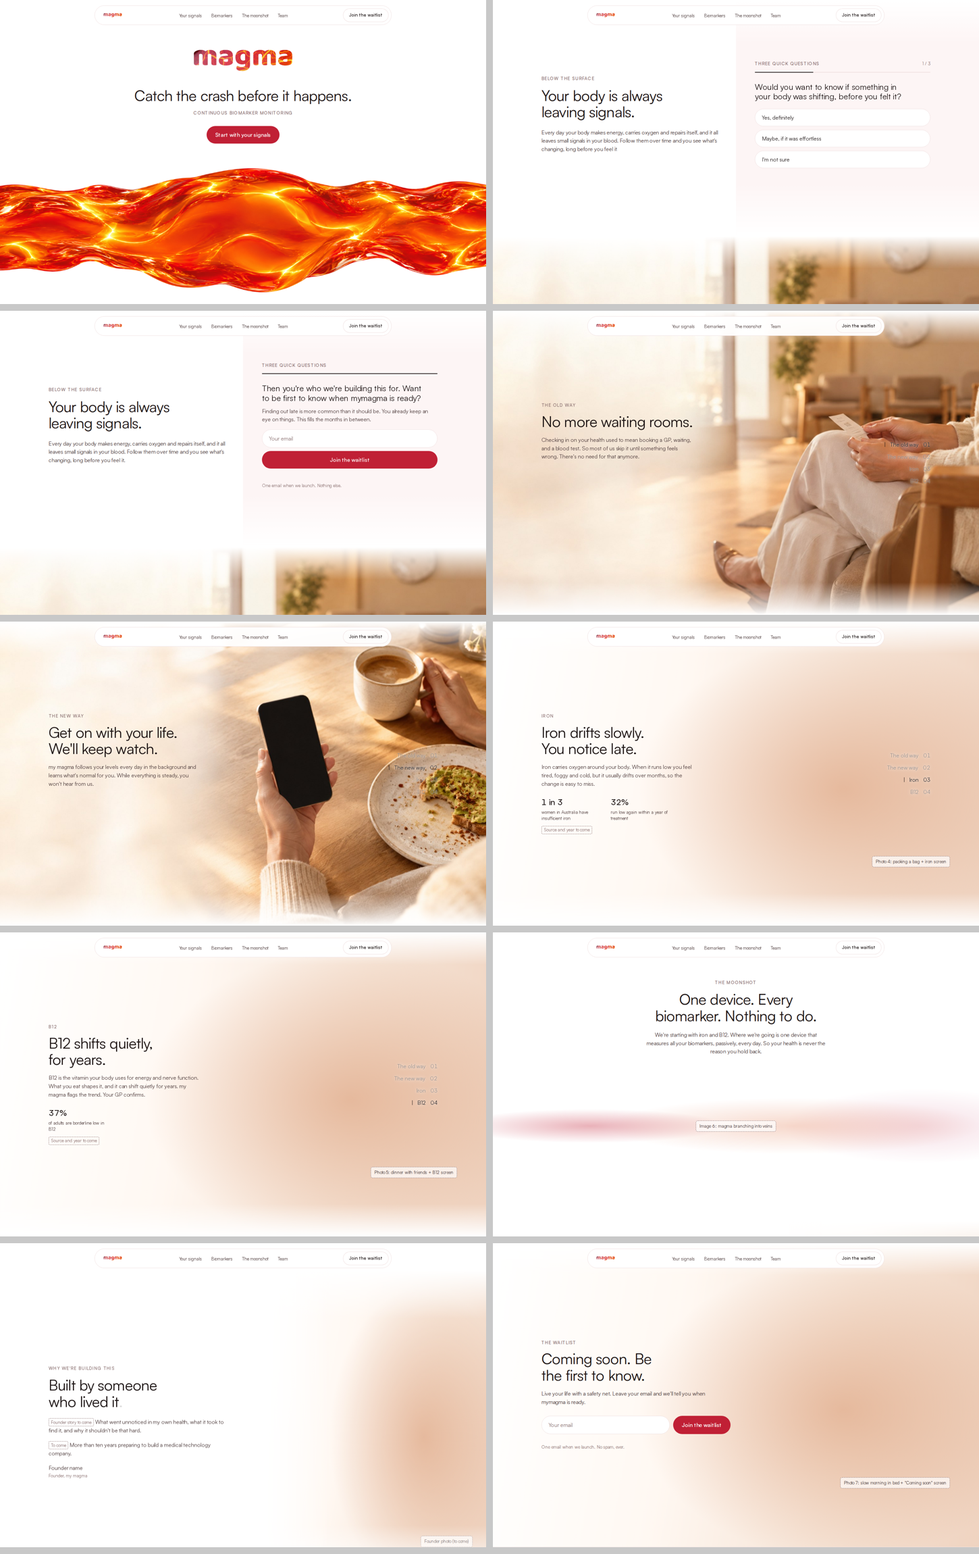
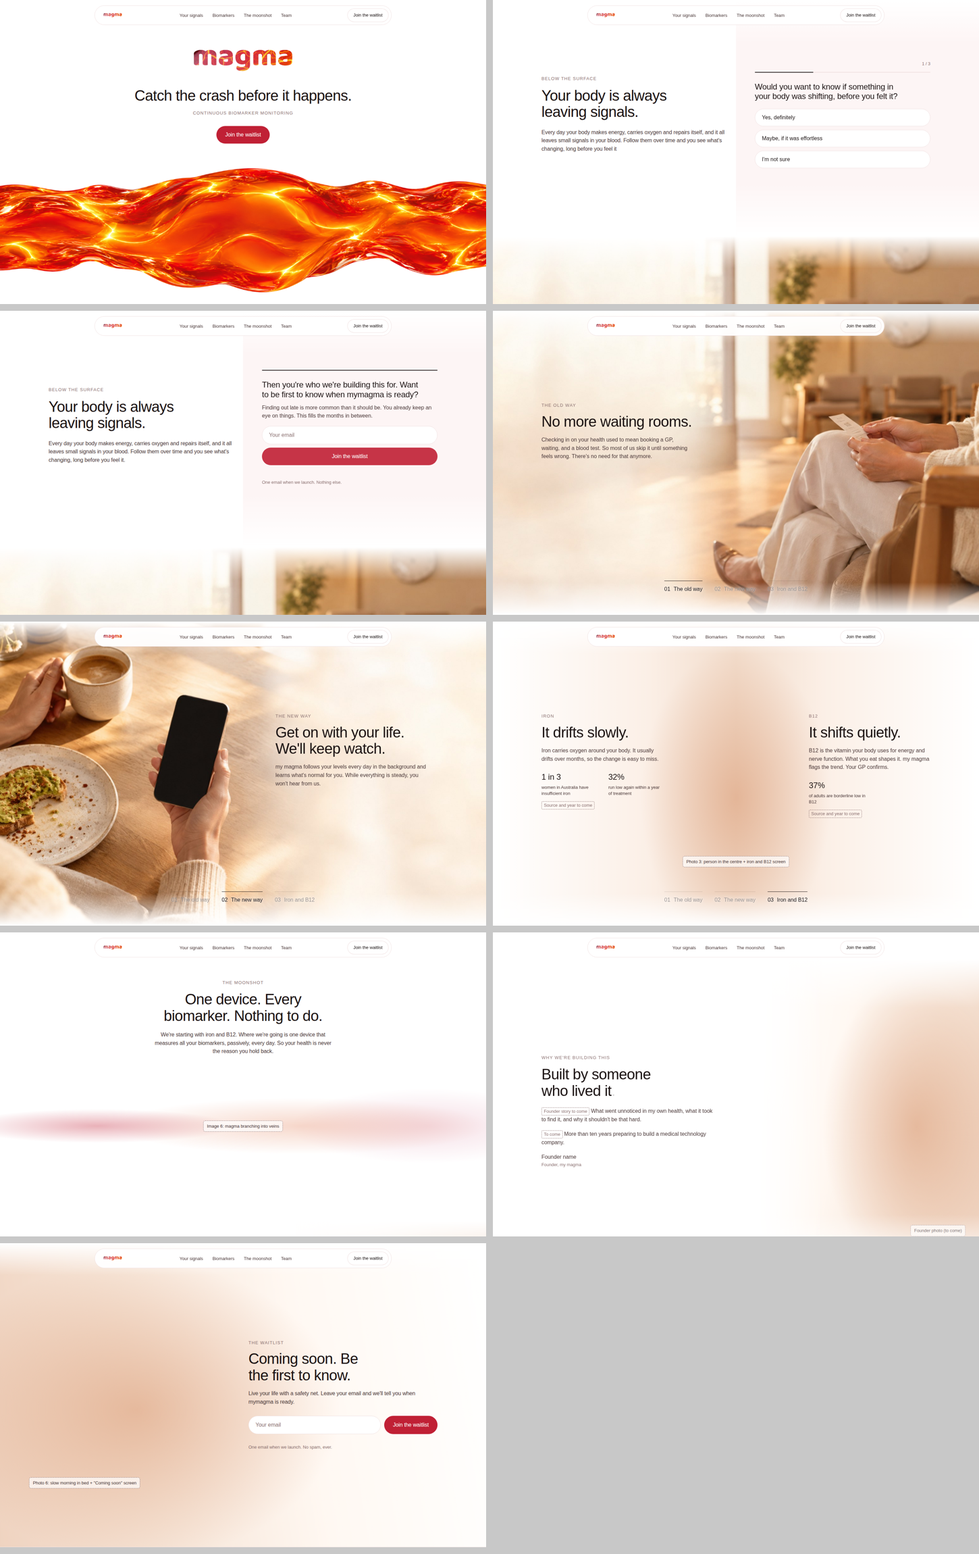
Vary story layouts: text left, right, and split around a centred photo; merge iron and B12
Claude-Session: https://claude.ai/code/session_01LunAQafJPPKK7NvtiupAmc

diff --git a/index.html b/index.html
@@ -236,7 +236,7 @@
   .thanks-title { font-size: var(--t-sub); line-height: 1.2; letter-spacing: -0.012em; }
 
   /* ---------- Section 3: the pinned story ---------- */
-  .story { position: relative; height: 400vh; }
+  .story { position: relative; height: 300vh; }
   .story-sticky {
     position: sticky;
     top: 0;
@@ -272,6 +272,25 @@
     width: min(480px, 40vw);
   }
   .frame-text .heading-lg { margin: 14px 0 18px; }
+  .frame--right .frame-text,
+  .frame-text--right {
+    left: auto;
+    right: max(var(--gutter), calc((100vw - var(--max)) / 2 + var(--gutter)));
+  }
+  .frame--split .frame-text { width: min(360px, 28vw); }
+  .frame--mirror .frame-media img { transform: scaleX(-1); }
+  .ph.ph--left {
+    justify-content: flex-start;
+    background:
+      radial-gradient(60% 70% at 28% 55%, rgba(216, 150, 110, 0.55), transparent 70%),
+      linear-gradient(260deg, #FFFFFF 0%, #FFF8F2 38%, #F6E4D6 70%, #EFD3C0 100%);
+  }
+  .ph.ph--center {
+    justify-content: center;
+    background:
+      radial-gradient(28% 70% at 50% 58%, rgba(216, 150, 110, 0.55), transparent 70%),
+      linear-gradient(90deg, #FFFFFF 0%, #FBEFE6 32%, #F2DCCB 50%, #FBEFE6 68%, #FFFFFF 100%);
+  }
   .frame-text > p:not(.label) { font-size: var(--t-body); line-height: 1.55; color: var(--ink-2); max-width: 28em; }
   .frame.is-active .frame-text > * { animation: rise 800ms var(--ease) both; }
   .frame.is-active .frame-text > *:nth-child(2) { animation-delay: 80ms; }
@@ -301,33 +320,27 @@
   .story-index {
     position: absolute;
     z-index: 4;
-    right: max(var(--gutter), calc((100vw - var(--max)) / 2 + var(--gutter)));
-    top: 50%;
-    transform: translateY(-50%);
+    left: 50%;
+    bottom: 64px;
+    transform: translateX(-50%);
     list-style: none;
     display: flex;
-    flex-direction: column;
-    gap: 12px;
-    text-align: right;
+    gap: 36px;
+    white-space: nowrap;
   }
   .story-index li {
     font-size: var(--t-body);
     color: rgba(26, 18, 18, 0.45);
     transition: color 600ms var(--ease);
     display: flex;
-    justify-content: flex-end;
     align-items: baseline;
-    gap: 14px;
+    gap: 10px;
+    padding-top: 12px;
+    border-top: 1px solid rgba(26, 18, 18, 0.15);
+    text-shadow: 0 0 14px rgba(255, 255, 255, 0.9), 0 0 2px rgba(255, 255, 255, 0.9);
   }
   .story-index li span { font-variant-numeric: tabular-nums; }
-  .story-index li.is-active { color: var(--ink); }
-  .story-index li { text-shadow: 0 0 14px rgba(255, 255, 255, 0.9), 0 0 2px rgba(255, 255, 255, 0.9); }
-  .story-index li.is-active::before {
-    content: "";
-    width: 1px; height: 14px;
-    background: var(--ink);
-    align-self: center;
-  }
+  .story-index li.is-active { color: var(--ink); border-top-color: var(--ink); }
 
   /* Image placeholders until the ChatGPT images arrive */
   .ph {
@@ -384,14 +397,14 @@
   /* ---------- Section 6: waitlist ---------- */
   .waitlist { position: relative; min-height: 100vh; display: flex; align-items: center; overflow: hidden; }
   .waitlist-media { position: absolute; inset: 0; }
-  .waitlist-media img { width: 100%; height: 100%; object-fit: cover; object-position: 70% 50%; }
+  .waitlist-media img { width: 100%; height: 100%; object-fit: cover; object-position: 30% 50%; }
   .waitlist::before {
     content: "";
     position: absolute; left: 0; right: 0; top: 0; height: 96px; z-index: 1;
     background: linear-gradient(#fff, rgba(255,255,255,0));
   }
   .waitlist-inner { position: relative; z-index: 2; width: 100%; }
-  .waitlist-copy { max-width: 560px; }
+  .waitlist-copy { max-width: 560px; margin-left: auto; }
   .waitlist .heading-lg { margin: 14px 0 18px; }
   .waitlist .body-lg { margin-bottom: 28px; }
   .waitlist .email-form { flex-direction: row; }
@@ -449,7 +462,8 @@
       content: ""; position: absolute; left: 0; right: 0; bottom: 0; height: 80px;
       background: linear-gradient(rgba(255,255,255,0), #fff);
     }
-    .frame-text { position: relative; left: auto; top: auto; transform: none; width: auto; padding: 8px var(--gutter) 0; }
+    .frame-text, .frame--right .frame-text, .frame-text--right, .frame--split .frame-text { position: relative; left: auto; right: auto; top: auto; transform: none; width: auto; padding: 8px var(--gutter) 0; }
+    .frame-text--right { margin-top: 40px; }
     .frame .frame-text > * { animation: none; }
     .stats { gap: 24px; }
 
@@ -467,6 +481,7 @@
       background: linear-gradient(rgba(255,255,255,0), #fff);
     }
     .waitlist .email-form { flex-direction: column; }
+    .waitlist-copy { margin-left: 0; }
   }
 </style>
 </head>
@@ -570,7 +585,7 @@
           </div>
         </article>
 
-        <article class="frame" data-step="1">
+        <article class="frame frame--right frame--mirror" data-step="1">
           <div class="frame-media"><img src="assets/photos/02-breakfast.jpg" alt="" width="1536" height="1024" loading="lazy"></div>
           <div class="frame-text">
             <p class="label">The new way</p>
@@ -579,12 +594,12 @@
           </div>
         </article>
 
-        <article class="frame" data-step="2">
-          <div class="frame-media"><div class="ph"><span>Photo 4: packing a bag + iron screen</span></div></div>
-          <div class="frame-text">
+        <article class="frame frame--split" data-step="2">
+          <div class="frame-media"><div class="ph ph--center"><span>Photo 3: person in the centre + iron and B12 screen</span></div></div>
+          <div class="frame-text frame-text--left">
             <p class="label">Iron</p>
-            <h2 class="heading-lg">Iron drifts slowly. You notice late.</h2>
-            <p>Iron carries oxygen around your body. When it runs low you feel tired, foggy and cold, but it usually drifts over months, so the change is easy to miss.</p>
+            <h2 class="heading-lg">It drifts slowly.</h2>
+            <p>Iron carries oxygen around your body. It usually drifts over months, so the change is easy to miss.</p>
             <div>
               <div class="stats">
                 <div>
@@ -599,14 +614,10 @@
               <p class="source"><span class="placeholder-tag">Source and year to come</span></p>
             </div>
           </div>
-        </article>
-
-        <article class="frame" data-step="3">
-          <div class="frame-media"><div class="ph"><span>Photo 5: dinner with friends + B12 screen</span></div></div>
-          <div class="frame-text">
+          <div class="frame-text frame-text--right">
             <p class="label">B12</p>
-            <h2 class="heading-lg">B12 shifts quietly, for years.</h2>
-            <p>B12 is the vitamin your body uses for energy and nerve function. What you eat shapes it, and it can shift quietly for years. my magma flags the trend. Your GP confirms.</p>
+            <h2 class="heading-lg">It shifts quietly.</h2>
+            <p>B12 is the vitamin your body uses for energy and nerve function. What you eat shapes it. my magma flags the trend. Your GP confirms.</p>
             <div>
               <div class="stats">
                 <div>
@@ -620,10 +631,9 @@
         </article>
 
         <ol class="story-index" aria-hidden="true">
-          <li class="is-active">The old way <span>01</span></li>
-          <li>The new way <span>02</span></li>
-          <li>Iron <span>03</span></li>
-          <li>B12 <span>04</span></li>
+          <li class="is-active"><span>01</span> The old way</li>
+          <li><span>02</span> The new way</li>
+          <li><span>03</span> Iron and B12</li>
         </ol>
       </div>
     </section>
@@ -656,7 +666,7 @@
 
     <!-- 6. Waitlist -->
     <section class="waitlist" id="waitlist">
-      <div class="waitlist-media"><div class="ph"><span>Photo 7: slow morning in bed + "Coming soon" screen</span></div></div>
+      <div class="waitlist-media"><div class="ph ph--left"><span>Photo 6: slow morning in bed + "Coming soon" screen</span></div></div>
       <div class="wrap waitlist-inner">
         <div class="waitlist-copy reveal">
           <p class="label">The waitlist</p>

diff --git a/docs/image-prompts-ready.md b/docs/image-prompts-ready.md
@@ -2,13 +2,13 @@
 
 Copy each block as it is. For app shots make two images: the scene with a black phone, then the app screen on its own. Save them with the file names shown and upload them here (or to `assets/photos/`). Choose the largest landscape size for scenes and the tallest portrait size for app screens.
 
-## 1. Waiting room (story 01, the old way)
+## 1. Waiting room (story 01, the old way). Done.
 **Scene**, save as `01-waiting-room.png`
 ```
 Photorealistic editorial lifestyle photograph, 3:2 landscape, highest quality. Warm, real, lived-in. Ordinary life, not fitness: no sportswear, running, gyms or sweat. Natural golden-hour light, soft and bright, never dark or moody. Warm cream, amber and soft rose tones; no blue, green or black tones except the phone. NO FACES: only hands and forearms, or a person cropped below the chin or seen from behind. Candid, not posed. No hospitals, no medical equipment, no text, no logos, no smartwatch or wristband. The subject sits in the right half of the frame; the left 40% is soft, bright, out-of-focus space with no detail, so text can be placed on it. A quiet doctor's waiting room in soft afternoon light, warm timber and beige chairs, not clinical. Close-up of a person's hands resting on their lap holding a small paper queue ticket, one foot tapping, a wall clock blurred in the background. Only hands, lap and shoes visible. The feeling is patient boredom, not illness.
 ```
 
-## 2. Breakfast, "All steady" (story 02, the new way)
+## 2. Breakfast, "All steady" (story 02, the new way). Photo done; only the app screen is needed. The page shows it mirrored, text on the right.
 **Scene (black phone)**, save as `02-breakfast.png`
 ```
 Photorealistic editorial lifestyle photograph, 3:2 landscape, highest quality. Warm, real, lived-in. Ordinary life, not fitness: no sportswear, running, gyms or sweat. Natural golden-hour light, soft and bright, never dark or moody. Warm cream, amber and soft rose tones; no blue, green or black tones except the phone. NO FACES: only hands and forearms, or a person cropped below the chin or seen from behind. Candid, not posed. No hospitals, no medical equipment, no text, no logos, no smartwatch or wristband. The subject sits in the right half of the frame; the left 40% is soft, bright, out-of-focus space with no detail, so text can be placed on it. A modern smartphone with thin bezels is the hero of the image: sharp, in focus, clearly readable size. Its screen is completely plain matte black, facing the camera almost straight on (tilted no more than 15 degrees), with no reflections, glare, fingers or objects covering it. A slow weekend breakfast at a sunlit kitchen table: one hand holding a phone, the other resting beside a cup of coffee and a half-eaten piece of toast on a ceramic plate. Only hands and forearms visible. Relaxed, unhurried.
@@ -18,43 +18,35 @@ Photorealistic editorial lifestyle photograph, 3:2 landscape, highest quality. W
 A single mobile app screen, flat UI design, portrait 9:19.5, shown straight on with no phone frame, no hand, no background. Clean white background, generous white space, warm near-black text (#1A1212), one accent colour only: crimson #C02035 for the trend line and one highlight. Modern geometric sans-serif for words, monospace for numbers. Soft rounded cards with 16px corners and pale rose (#F0E0E0) hairline outlines. No blue, no green, no icons other than simple line icons. Calm and premium, like a well-designed health app from a top design studio. All text must be spelled exactly as written below. Top label "This week" and date "Tue 14 Oct". A large calm line: "All steady." Below it two small cards side by side: "Iron" and "B12", each with a tiny smooth crimson line inside a pale rose band and the words "Within your range". Small grey text at the bottom: "We'll let you know if anything shifts."
 ```
 
-## 3. Packing a bag, iron (story 03)
-**Scene (black phone)**, save as `03-iron.png`
+## 3. Iron and B12 together (story 03, person in the centre)
+Iron text sits on the left of this image and B12 text on the right, so the person and phone must be in the middle.
+
+**Scene (black phone)**, save as `03-iron-b12.png`
 ```
-Photorealistic editorial lifestyle photograph, 3:2 landscape, highest quality. Warm, real, lived-in. Ordinary life, not fitness: no sportswear, running, gyms or sweat. Natural golden-hour light, soft and bright, never dark or moody. Warm cream, amber and soft rose tones; no blue, green or black tones except the phone. NO FACES: only hands and forearms, or a person cropped below the chin or seen from behind. Candid, not posed. No hospitals, no medical equipment, no text, no logos, no smartwatch or wristband. The subject sits in the right half of the frame; the left 40% is soft, bright, out-of-focus space with no detail, so text can be placed on it. A modern smartphone with thin bezels is the hero of the image: sharp, in focus, clearly readable size. Its screen is completely plain matte black, facing the camera almost straight on (tilted no more than 15 degrees), with no reflections, glare, fingers or objects covering it. Packing for a weekend away: an open canvas weekend travel bag on a bed with folded linen shirts, a paperback and sunglasses, one hand holding a phone just above the bag. Only hands and forearms visible. Afternoon sun through the window.
+Photorealistic editorial lifestyle photograph, 3:2 landscape, highest quality. Warm, real, lived-in. Ordinary life, not fitness: no sportswear, running, gyms or sweat. Natural golden-hour light, soft and bright, never dark or moody. Warm cream, amber and soft rose tones; no blue, green or black tones except the phone. NO FACES: only hands and forearms, or a person cropped below the chin or seen from behind. Candid, not posed. No hospitals, no medical equipment, no text, no logos, no smartwatch or wristband. The subject sits in the centre third of the frame; the left 33% and the right 33% are both soft, bright, out-of-focus space with no detail, so text can be placed on either side. A modern smartphone with thin bezels is the hero of the image: sharp, in focus, clearly readable size. Its screen is completely plain matte black, facing the camera almost straight on (tilted no more than 15 degrees), with no reflections, glare, fingers or objects covering it. Seen from behind and slightly above: a person standing at a sunlit kitchen bench in the centre of the frame, unpacking a paper grocery bag with salmon, eggs, spinach and a loaf of bread, one hand holding a phone at chest height. Only their back, shoulders, arms and hands are visible. Warm afternoon window light.
 ```
-**App screen**, save as `03-iron-screen.png`
+**App screen**, save as `03-iron-b12-screen.png`
 ```
-A single mobile app screen, flat UI design, portrait 9:19.5, shown straight on with no phone frame, no hand, no background. Clean white background, generous white space, warm near-black text (#1A1212), one accent colour only: crimson #C02035 for the trend line and one highlight. Modern geometric sans-serif for words, monospace for numbers. Soft rounded cards with 16px corners and pale rose (#F0E0E0) hairline outlines. No blue, no green, no icons other than simple line icons. Calm and premium, like a well-designed health app from a top design studio. All text must be spelled exactly as written below. Title "Iron". A smooth crimson line over three months inside a pale rose band labelled "Your range", gently easing toward the lower edge. X-axis labels "Aug", "Sep", "Oct". A calm card below: "Your iron has been easing lower for 3 weeks. Might be worth a chat with your GP." No big numbers.
+A single mobile app screen, flat UI design, portrait 9:19.5, shown straight on with no phone frame, no hand, no background. Clean white background, generous white space, warm near-black text (#1A1212), one accent colour only: crimson #C02035 for the trend line and one highlight. Modern geometric sans-serif for words, monospace for numbers. Soft rounded cards with 16px corners and pale rose (#F0E0E0) hairline outlines. No blue, no green, no icons other than simple line icons. Calm and premium, like a well-designed health app from a top design studio. All text must be spelled exactly as written below. Top label "Your levels". Two stacked cards. Card 1: "Iron" with a small smooth crimson line inside a pale rose band labelled "Your range", and the words "Within your range". Card 2: "B12" with a small smooth crimson line inside the pale rose band, easing slightly lower at the end, and the words "A small shift this week". Small grey text at the bottom: "my magma flags trends. Your GP confirms."
 ```
 
-## 4. Dinner with friends, B12 (story 04)
-**Scene (black phone)**, save as `04-b12.png`
-```
-Photorealistic editorial lifestyle photograph, 3:2 landscape, highest quality. Warm, real, lived-in. Ordinary life, not fitness: no sportswear, running, gyms or sweat. Natural golden-hour light, soft and bright, never dark or moody. Warm cream, amber and soft rose tones; no blue, green or black tones except the phone. NO FACES: only hands and forearms, or a person cropped below the chin or seen from behind. Candid, not posed. No hospitals, no medical equipment, no text, no logos, no smartwatch or wristband. The subject sits in the right half of the frame; the left 40% is soft, bright, out-of-focus space with no detail, so text can be placed on it. A modern smartphone with thin bezels is the hero of the image: sharp, in focus, clearly readable size. Its screen is completely plain matte black, facing the camera almost straight on (tilted no more than 15 degrees), with no reflections, glare, fingers or objects covering it. A long wooden dinner table set for friends in warm evening light: several hands passing dishes of salmon, eggs and greens, glasses of wine, a linen napkin, and a phone lying face-up on the table near a plate. Only hands and forearms visible. Convivial and relaxed.
-```
-**App screen**, save as `04-b12-screen.png`
-```
-A single mobile app screen, flat UI design, portrait 9:19.5, shown straight on with no phone frame, no hand, no background. Clean white background, generous white space, warm near-black text (#1A1212), one accent colour only: crimson #C02035 for the trend line and one highlight. Modern geometric sans-serif for words, monospace for numbers. Soft rounded cards with 16px corners and pale rose (#F0E0E0) hairline outlines. No blue, no green, no icons other than simple line icons. Calm and premium, like a well-designed health app from a top design studio. All text must be spelled exactly as written below. Title "B12". A smooth crimson line inside the pale rose "Your range" band, easing slightly lower at the end. A card: "A small shift in your B12 this week." Under it "Foods that can help" and three rounded pills: "Eggs", "Salmon", "Yoghurt". Small grey note at the bottom: "my magma flags trends. Your GP confirms."
-```
-
-## 5. Moonshot, magma veins
-**Image**, save as `05-moonshot-veins.png`
+## 4. Moonshot, magma veins
+**Image**, save as `04-moonshot-veins.png`
 ```
 Photorealistic molten magma seen from above on a pure white 3:2 frame: a single glowing flow on the left that branches into many thin luminous veins spreading to the right, like a river delta or branching blood vessels. Hair-thin golden fissure lines, deep crimson to orange-red to luminous rose. No black. Pristine pure white #FFFFFF background, no shadow.
 ```
 
-## 6. Waitlist, slow morning in bed
-**Scene (black phone)**, save as `06-waitlist.png`
+## 5. Waitlist, slow morning in bed (person on the left)
+**Scene (black phone)**, save as `05-waitlist.png`
 ```
-Photorealistic editorial lifestyle photograph, 3:2 landscape, highest quality. Warm, real, lived-in. Ordinary life, not fitness: no sportswear, running, gyms or sweat. Natural golden-hour light, soft and bright, never dark or moody. Warm cream, amber and soft rose tones; no blue, green or black tones except the phone. NO FACES: only hands and forearms, or a person cropped below the chin or seen from behind. Candid, not posed. No hospitals, no medical equipment, no text, no logos, no smartwatch or wristband. The subject sits in the right half of the frame; the left 40% is soft, bright, out-of-focus space with no detail, so text can be placed on it. A modern smartphone with thin bezels is the hero of the image: sharp, in focus, clearly readable size. Its screen is completely plain matte black, facing the camera almost straight on (tilted no more than 15 degrees), with no reflections, glare, fingers or objects covering it. A slow Sunday morning in bed: hands holding a phone above a cream linen duvet, a cup of coffee on the bedside table, soft morning sun through sheer curtains. Only hands and forearms visible.
+Photorealistic editorial lifestyle photograph, 3:2 landscape, highest quality. Warm, real, lived-in. Ordinary life, not fitness: no sportswear, running, gyms or sweat. Natural golden-hour light, soft and bright, never dark or moody. Warm cream, amber and soft rose tones; no blue, green or black tones except the phone. NO FACES: only hands and forearms, or a person cropped below the chin or seen from behind. Candid, not posed. No hospitals, no medical equipment, no text, no logos, no smartwatch or wristband. The subject sits in the left half of the frame; the right 40% is soft, bright, out-of-focus space with no detail, so text can be placed on it. A modern smartphone with thin bezels is the hero of the image: sharp, in focus, clearly readable size. Its screen is completely plain matte black, facing the camera almost straight on (tilted no more than 15 degrees), with no reflections, glare, fingers or objects covering it. A slow Sunday morning in bed: hands holding a phone above a cream linen duvet, a cup of coffee on the bedside table, soft morning sun through sheer curtains. Only hands and forearms visible.
 ```
-**App screen**, save as `06-waitlist-screen.png`
+**App screen**, save as `05-waitlist-screen.png`
 ```
 A single mobile app screen, flat UI design, portrait 9:19.5, shown straight on with no phone frame, no hand, no background. Clean white background, generous white space, warm near-black text (#1A1212), one accent colour only: crimson #C02035 for the trend line and one highlight. Modern geometric sans-serif for words, monospace for numbers. Soft rounded cards with 16px corners and pale rose (#F0E0E0) hairline outlines. No blue, no green, no icons other than simple line icons. Calm and premium, like a well-designed health app from a top design studio. All text must be spelled exactly as written below. Centred, lots of white space. The lowercase word "magma" in a heavy, rounded, bold crimson font. Below it: "Coming soon." and in smaller grey text "Your own baseline. Tracked every day."
 ```
 
-## 7. Magma flow connectors (links the hero to every section)
+## 6. Magma flow connectors (links the hero to every section)
 Four thin magma ribbons that join the sections, like the magma running along the walls of your store image. Make them on a transparent background so they sit over photos and white alike.
 
 **Connector A**, save as `07a-flow.png` (hero into "your signals")
@@ -74,7 +66,7 @@ Photorealistic molten magma seen from above, a single thin flowing ribbon, about
 Photorealistic molten magma seen from above, a single thin flowing ribbon, about one tenth of the image height thick, on a fully TRANSPARENT background (PNG with alpha), no white, no shadow, no glow outside the ribbon. Viscous liquid lava with visible surface tension and hair-thin bright golden fissure lines. Colour runs from deep crimson where it enters, through vivid orange-red, to warm luminous rose where it leaves. No black or dark tones. Organic, irregular edges with small rounded bubble-like protrusions, like the edge of a lava flow, never a smooth tube. Wide 3:1 landscape, highest resolution. A long, almost straight horizontal band running edge to edge across the whole image, with an organic irregular top and bottom edge. Very wide 5:1 landscape.
 ```
 
-## 8. Hero magma, higher resolution (optional)
+## 7. Hero magma, higher resolution (optional)
 **Image**, save as `08-hero-magma.png`
 ```
 Photorealistic flowing molten magma viewed from above, a horizontal band crossing the middle third of a pure white 3:2 frame, entering at the left edge and leaving at the right edge. Viscous liquid lava with visible surface tension and hair-thin bright golden fissure lines. Colour runs from deep crimson on the left, to vivid orange-red in the middle, to warm luminous rose-pink on the right. No black or dark tones; the darkest value is deep red. Organic irregular edges with small rounded bubble-like protrusions and drips. Top and bottom thirds are pristine pure white #FFFFFF with no shadow, no texture, no gradient. Highest resolution.
